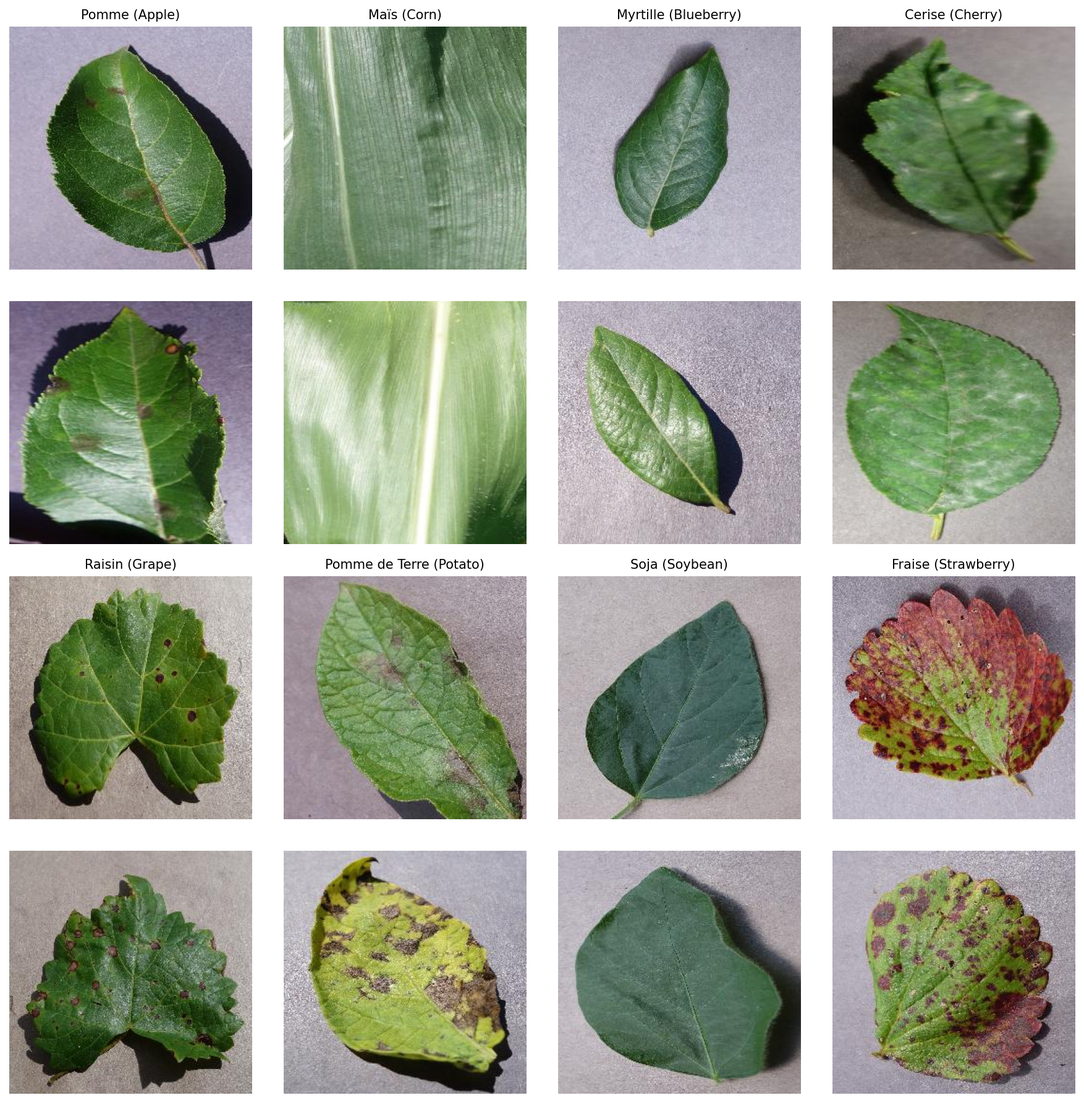
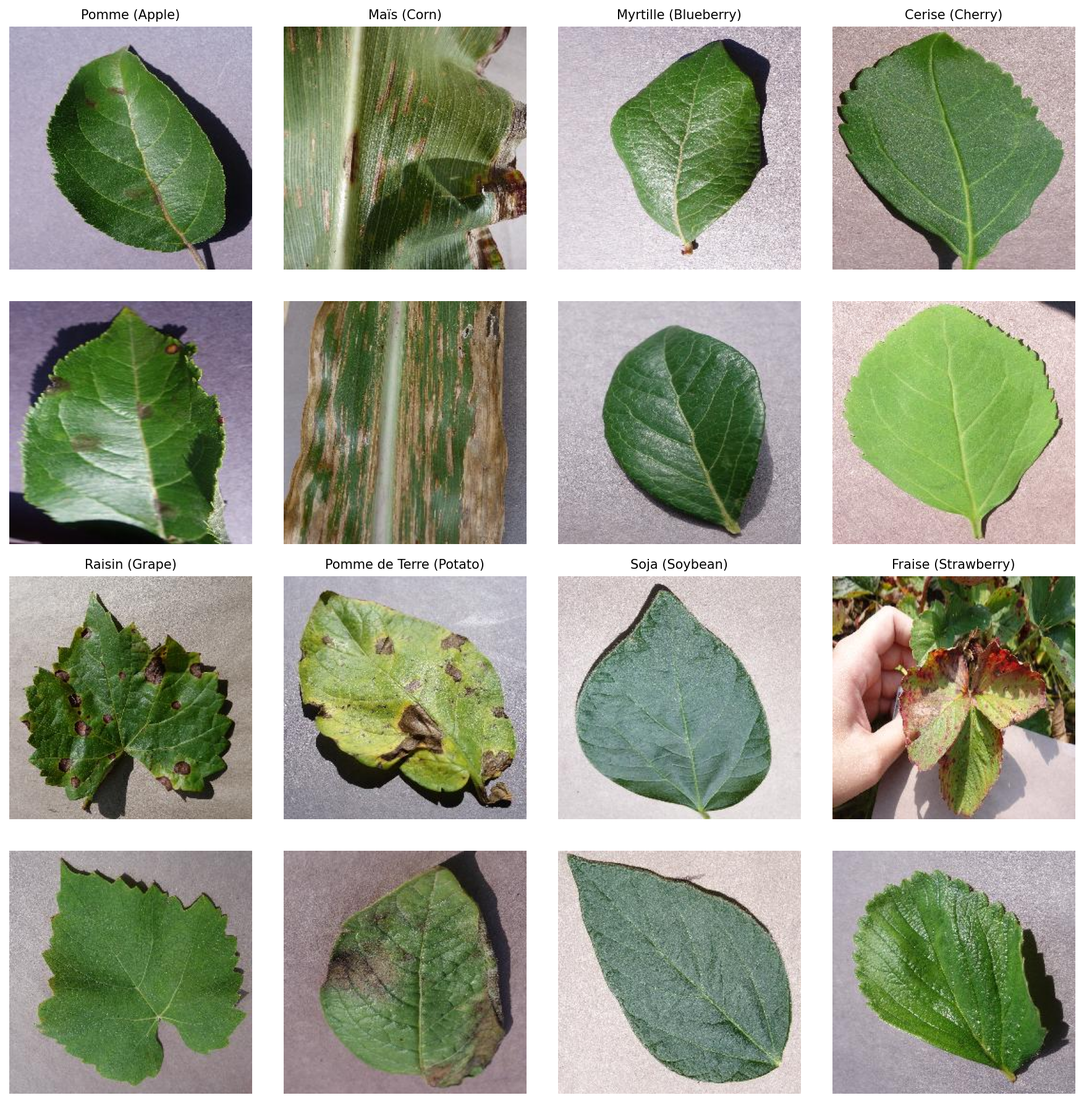
update streamlit

diff --git a/Streamlit/tabs/eda.py b/Streamlit/tabs/eda.py
@@ -9,14 +9,14 @@ def sidebar_choice():
     tab1, tab2, tab3, tab4 = st.tabs(["Les Datasets", "PlantVillage", "Nettoyage", "Visualisation"])
     
     with tab1:
-        st.header("1. Les Datasets")
+        st.header("Les Datasets")
         st.markdown("""
         À partir des **6 datasets** proposés par DataScientest, nous avons effectué plusieurs
         sélections successives basées sur des explorations afin de n’en retenir qu’un : **PlantVillage**, détaillé dans l'onglet "PlantVillage".
         """)
 
         # --- 1ère partie : Datasets pour l'identification de l'espèce ---
-        st.markdown("### 1.1 Datasets pour l'identification de l'espèce")
+        st.markdown("### Datasets pour l'identification de l'espèce")
         st.markdown("""
         Trois premiers jeux de données sont dédiés à l’**identification de l’espèce** à partir
         d’images de plantes complètes dans des environnements variés :
@@ -70,7 +70,7 @@ def sidebar_choice():
         """)
 
         # --- 2ème partie : Datasets pour l'identification des plantes et des maladies ---
-        st.markdown("### 1.2 Datasets pour l'identification des plantes et des maladies")
+        st.markdown("### Datasets pour l'identification des plantes et des maladies")
         st.markdown("""
         Les trois autres jeux de données : **Plant Disease**, **New Plant Diseases** et **PlantVillage** sont tous centrés sur des **feuilles de plantes recadrées sur fond uni**,
         afin de faciliter la détection automatique des maladies.
@@ -98,13 +98,14 @@ def sidebar_choice():
         (environ 34 000 images supplémentaires). Notre analyse exploratoire a montré que certaines
         espèces majoritaires ont été augmentées plus que d’autres pour couvrir un objectif non
         précisé dans la littérature.
-
-        Notre choix se porte donc sur **PlantVillage**, qui cadre bien avec notre scénario.
-        Sa structure est détaillée dans l'onglet *PlantVillage*.
         """)
 
+        st.markdown("#### Sélection du dataset pour l'identification des plantes et des maladies")
+        st.warning("Notre choix se porte donc sur **PlantVillage**, qui cadre bien avec notre scénario.")
+        st.caption("Sa structure est détaillée dans l'onglet *PlantVillage*.")
+
     with tab2:
-        st.header("2. Le Dataset PlantVillage")
+        st.header("Le Dataset PlantVillage")
         
         c1, c2 = st.columns([8, 1])
         
@@ -126,25 +127,27 @@ def sidebar_choice():
             st.metric("   Espèces", "14")
             st.metric("   Maladies", "20")
 
-        col_color, col_seg = st.columns(2)
+        col_seg, col_color = st.columns(2)
+
+    with col_seg:
+        st.markdown("### Variante Segmented")
+        st.image(
+            "Streamlit/assets/dataset_overview_segmented_select.png",
+            caption="Aperçu de la diversité des espèces et Maladies dans le dataset PlantVillage/segmented (fond noir)",
+            width=650,
+        )
 
     with col_color:
+        st.markdown("### Variante Color")
         st.image(
             "Streamlit/assets/dataset_overview_color_select.png",
             caption="Aperçu de la diversité des espèces et Maladies dans le dataset PlantVillage / color (fond original)",
             width=650,
         )
 
-    with col_seg:
-        st.image(
-        "Streamlit/assets/dataset_overview_segmented_select.png",
-        caption="Aperçu de la diversité des espèces et Maladies dans le dataset PlantVillage/segmented (fond noir)",
-        width=650,
-    )
-
             
     with tab3:
-        st.header("3. Pipeline de Preprocessing")
+        st.header(" Pipeline de Preprocessing")
         st.markdown("""
         Pour garantir la robustesse du modèle lors du passage en production (images réelles), nous avons appliqué un nettoyage strict.
         """)
@@ -157,7 +160,7 @@ def sidebar_choice():
         """)
         
     with tab4:
-        st.header("4. Visualisation des Données")
+        st.header(" Visualisation des Données")
         st.write("Exploration de la distribution des classes.")
         
         # Chargement des données réelles

diff --git a/notebooks/generate_dataset_overview_color.py b/notebooks/generate_dataset_overview_color.py
@@ -1,5 +1,6 @@
 from pathlib import Path
 import random
+import csv
 from PIL import Image
 import matplotlib.pyplot as plt
 
@@ -54,17 +55,56 @@ def pick_color_for_species(prefixes, max_images):
     return imgs[:max_images]
 
 
-def pick_segmented_for_species(prefixes, max_images):
-    """Sélectionne des images SEGMENTED pour une espèce donnée (indépendamment de COLOR)."""
+def pick_color_with_segmented(prefixes, max_images):
+    """Sélectionne des images COLOR qui ont un équivalent SEGMENTED (même base de nom)."""
+    seg_idx = _segmented_index_for_prefixes(prefixes)
+
     imgs = []
+    for d in COLOR_ROOT.iterdir():
+        if not d.is_dir():
+            continue
+        if any(d.name.startswith(p) for p in prefixes):
+            files = list(d.glob("*.jpg")) + list(d.glob("*.JPG")) + list(d.glob("*.png"))
+            imgs.extend([p for p in files if p.stem in seg_idx])
+
+    random.shuffle(imgs)
+    return imgs[:max_images]
+
+
+def _segmented_index_for_prefixes(prefixes):
+    """Indexe les fichiers segmented pour une espèce, pour retrouver un équivalent par nom."""
+    index = {}
     for d in SEG_ROOT.iterdir():
         if not d.is_dir():
             continue
         if any(d.name.startswith(p) for p in prefixes):
             files = list(d.glob("*.png")) + list(d.glob("*.jpg")) + list(d.glob("*.JPG"))
-            imgs.extend(files)
-    random.shuffle(imgs)
-    return imgs[:max_images]
+            for p in files:
+                stem = p.stem
+                base = stem[:-13] if stem.endswith("_final_masked") else stem
+                index.setdefault(base, []).append(p)
+
+    for base in index:
+        index[base] = sorted(index[base])
+    return index
+
+
+def pick_segmented_matching_color(prefixes, color_imgs):
+    """Pour chaque image COLOR sélectionnée, récupère l'image SEGMENTED correspondante (même base de nom)."""
+    idx = _segmented_index_for_prefixes(prefixes)
+
+    seg_imgs = []
+    for c in color_imgs:
+        base = c.stem
+        candidates = idx.get(base)
+        if not candidates:
+            continue
+
+        # Priorité à *_final_masked.png si présent
+        final_masked = [p for p in candidates if p.stem == f"{base}_final_masked"]
+        seg_imgs.append(final_masked[0] if final_masked else candidates[0])
+
+    return seg_imgs
 
 
 # Préparer les listes d'images par espèce
@@ -72,11 +112,21 @@ species_color = []
 species_seg = []
 
 for title, prefixes in SPECIES_CONFIG:
-    c_imgs = pick_color_for_species(prefixes, n_rows)
-    s_imgs = pick_segmented_for_species(prefixes, n_rows)
+    c_imgs = pick_color_with_segmented(prefixes, n_rows)
+    s_imgs = pick_segmented_matching_color(prefixes, c_imgs)
     print(f"{title}: {len(c_imgs)} color, {len(s_imgs)} segmented")
     species_color.append((title, c_imgs))
     species_seg.append((title, s_imgs))
+
+
+def write_manifest(species_images, manifest_path):
+    manifest_path.parent.mkdir(parents=True, exist_ok=True)
+    with open(manifest_path, "w", newline="", encoding="utf-8") as f:
+        writer = csv.writer(f)
+        writer.writerow(["output", "species_title", "row", "image_path"])
+        for title, imgs in species_images:
+            for i, p in enumerate(imgs):
+                writer.writerow([manifest_path.stem, title, i, str(p)])
 
 
 def build_grid(species_images, output_path, title_suffix=""):
@@ -123,3 +173,12 @@ def build_grid(species_images, output_path, title_suffix=""):
 # Générer les deux grilles
 build_grid(species_color, OUT_COLOR)
 build_grid(species_seg, OUT_SEG)
+
+write_manifest(
+    species_color,
+    PROJECT_ROOT / "Streamlit/assets/dataset_overview_color_select_manifest.csv",
+)
+write_manifest(
+    species_seg,
+    PROJECT_ROOT / "Streamlit/assets/dataset_overview_segmented_select_manifest.csv",
+)

diff --git a/Streamlit/tabs/home.py b/Streamlit/tabs/home.py
@@ -44,6 +44,52 @@ def sidebar_choice():
 
     st.divider()
 
+    col_card_left, col_illustration, col_card_right = st.columns([3, 1, 3])
+
+    with col_card_left:
+        st.markdown(
+            """
+            <div class="card" style="background-color: #a2d2ff;">
+                <h4>Contexte</h4>
+                <p>
+                "Les plantes occupent une place essentielle dans notre vie quotidienne, que ce soit pour alimenter les populations, 
+                 protéger la biodiversité ou embellir nos paysages. Pourtant, leur santé est régulièrement menacée par des maladies, des 
+                 parasites ou des conditions climatiques défavorables, entraînant des pertes économiques colossales — estimées à plusieurs 
+                 centaines de milliards de dollars par an selon la FAO — et compromettant la sécurité alimentaire mondiale. En parallèle, 
+                 l’engouement du grand public pour la reconnaissance des espèces et la compréhension de leur état de santé ne cesse de croître, 
+                 comme le montre l’adoption massive d’outils collaboratifs tels que PlantNet."
+                </p>
+            </div>
+            """,
+            unsafe_allow_html=True,
+        )
+
+    with col_illustration:
+        st.markdown(
+            """
+            <div style="display:flex; justify-content:center; align-items:center; height:100%; min-height:120px;">
+                <span style="font-size:64px; color:#e650aa; font-weight:700;">→</span>
+            </div>
+            """,
+            unsafe_allow_html=True,
+        )
+
+    with col_card_right:
+        st.markdown(
+            """
+            <div class="card" style="background-color: #caffbf;">
+                <h4>Mission</h4>
+                <p>
+                "Ce projet s’inscrit dans cette dynamique, développé dans le cadre d’une formation en data science."
+                "Il consiste à concevoir une solution basée sur des techniques d’intelligence artificielle pour identifier automatiquement" 
+                "les espèces végétales, évaluer leur santé et diagnostiquer d’éventuelles maladies."
+                "À travers ce travail, nous mettons en pratique des méthodes avancées d’apprentissage automatique tout en nous confrontant à des enjeux réels." 
+                </p>
+            </div>
+            """,
+            unsafe_allow_html=True,
+        )
+
     # --- OBJECTIFS SPECIFIQUES ---
     st.markdown("## Objectifs du Projet")
     obj1, obj2, obj3 = st.columns(3)
@@ -56,7 +102,7 @@ def sidebar_choice():
 
     st.markdown(
             """
-    Notre projet s’inspire d’une revue systématique de 2024, qui confirme la supériorité du Deep Learning pour la reconnaissance 
+    Notre projet s’inspire d’[une revue systématique de 2024](https://www.researchgate.net/publication/384455442_A_systematic_review_of_deep_learning_techniques_for_plant_diseases), qui confirme la supériorité du Deep Learning pour la reconnaissance 
     des plantes. Nous avons cependant implémenté une baseline en Machine Learning classique, principalement pour appliquer les 
     méthodes enseignées dans le cursus Data Scientist.
     Cette approche ne vise pas à rivaliser avec le Deep Learning, que nous avons largement exploré et optimisé à travers différentes 

diff --git a/Streamlit/tabs/modeling.py b/Streamlit/tabs/modeling.py
@@ -5,7 +5,12 @@ import plotly.graph_objects as go
 import os
 import time
 import requests
-from streamlit_lottie import st_lottie
+from tabs import deep_learning
+
+try:
+    from streamlit_lottie import st_lottie
+except ModuleNotFoundError:
+    st_lottie = None
 
 def load_lottieurl(url: str):
     r = requests.get(url)
@@ -71,7 +76,7 @@ def render_approach_content():
     with col_anim:
         # Centrage vertical approximatif pour l'animation
         st.markdown("<br>" * 3, unsafe_allow_html=True) 
-        if lottie_json:
+        if lottie_json and st_lottie is not None:
             st_lottie(lottie_json, speed=1, height=150, key="initial") # Taille réduite pour s'intégrer
 
     with col_dl:
